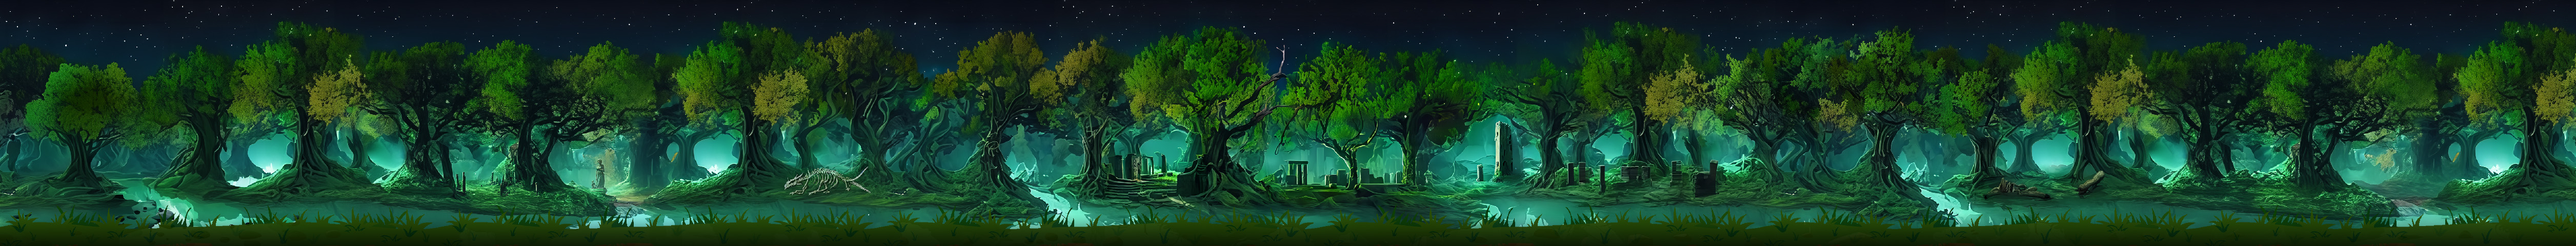
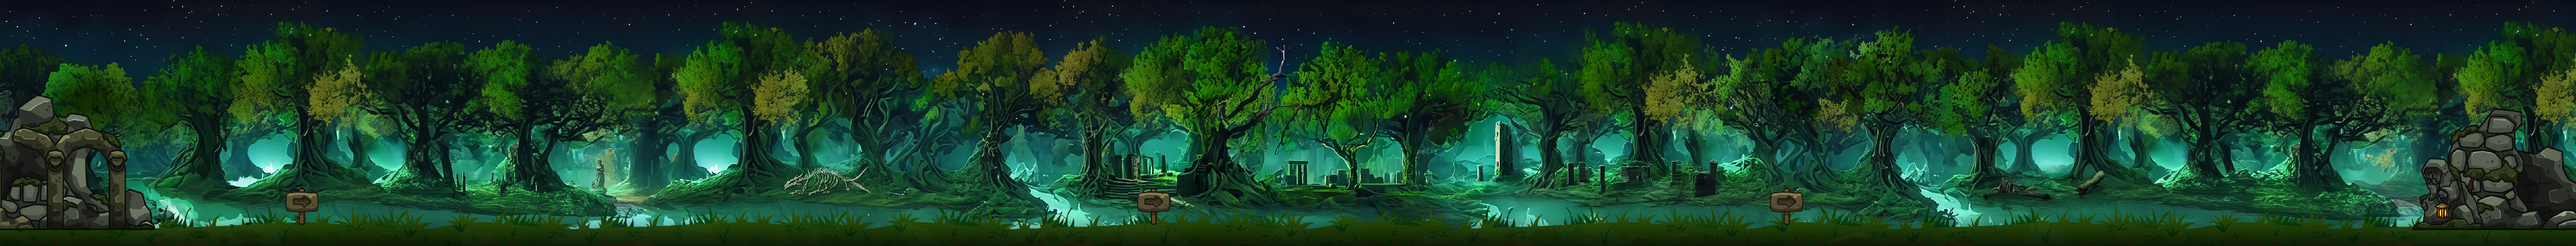
added new backgrounds and adjusted enemy density on lvl 1, implemented controls info

diff --git a/style.css b/style.css
@@ -5,13 +5,13 @@ body {
     justify-content: center;
     align-items: center;
     overflow: hidden;
-    height: 100vh;
+    height: 100dvh;
     margin: 0;
     /*background: linear-gradient(to top, rgba(22, 38, 0, 0.35),rgba(84, 118, 39, 0.35), rgb(36, 111, 158), rgb(2, 68, 109));*/
     background: linear-gradient(to top, rgb(38, 0, 0),rgb(118, 39, 39), rgb(36, 111, 158), rgb(2, 68, 109));
 }
 
-.global-button {
+.menu-button {
     padding: 10px;
     width: 6vw;
     height: 6vw;
@@ -21,10 +21,10 @@ body {
     min-width: 50px;
     cursor: pointer;
     transition: all 0.4s ease;
-    z-index: 100000;
+    z-index: 1;
 }
 
-.global-button:hover {
+.menu-button:hover {
     filter: brightness(1.2);
 }
 
@@ -176,6 +176,27 @@ button:hover {
     background-color: #f78a00;
     border: 3px solid rgba(255, 255, 255, 0.506);
     filter: drop-shadow(0px 0px 10px #ffe785);
+}
+
+/* CONTROLS */
+.controls {
+    z-index: 2;
+    display: none;
+    position: fixed;
+    height: 100dvh;
+    justify-content: center;
+    align-items: center;
+    width: 100vw;
+    background-color: rgba(0, 0, 0, 0.875);
+    top: 0;
+    left: 0;
+}
+
+.controls img {
+    width: 100%;
+    height: 60vw;
+    min-height: 400px;
+    max-height: 800px;
 }
 
 /* TURN DEVICE */
@@ -344,7 +365,7 @@ button:hover {
     background: linear-gradient(to top, rgb(38, 0, 0), rgb(2, 68, 109));
     background-size: 100% 200%;
     animation: backgroundAnimation 5s infinite ease;
-    z-index: 100000000;
+    z-index: 11;
 }
 
 @keyframes backgroundAnimation {
@@ -397,7 +418,7 @@ button:hover {
     transform: translateX(-50%);
     color: rgb(206, 163, 111);
     font-size: 20px;
-    z-index: 9999;
+    z-index: 10;
     text-shadow:
         1px 1px 0 rgba(0, 0, 0, 0.65), 
         -1px -1px 0 rgba(0, 0, 0, 0.65), 
@@ -416,7 +437,7 @@ button:hover {
     color: white;
     padding: 8px;
     border-radius: 50%;
-    z-index: 9999;
+    z-index: 10;
     cursor: pointer;
     opacity: 0.65;
 }
@@ -509,7 +530,7 @@ canvas {
 @media (hover: none) and (orientation: landscape) {
 
     canvas {
-        height: 100vh;
+        height: 100dvh;
         width: 100vw;
         border-radius: 0;
     }
@@ -521,7 +542,7 @@ canvas {
     .character-selection {
         max-width: 1000px;
         width: 100%;
-        height: 100vh;
+        height: 100dvh;
         border-radius: 0px;
     }
 
@@ -552,6 +573,13 @@ canvas {
     #gameFullscreen {
         display: none;
     }
+
+    .controls img {
+        width: 100%;
+        height: 100dvh;
+        min-height: 100dvh;
+        max-height: 100dvh;
+    }
 }
 
 /* DESKTOP ONLY */
@@ -576,7 +604,7 @@ canvas {
         max-width: 1000px;
         width: 100%;
         top: -200%;
-        max-height: 600vh;
+        max-height: 600px;
         border-radius: 0px;
         max-height: 60vh;
     }

diff --git a/script/levels/levels.js b/script/levels/levels.js
@@ -10,6 +10,15 @@ function loadLevel(levelNumber, character) {
                 new Enemy("ork", 1, 700 + Math.random() * 100),
                 new Enemy("ork", 1, 900 + Math.random() * 100),
                 new Enemy("troll", 1, 1300 + Math.random() * 100),
+                new Enemy("ork", 1, 1500 + Math.random() * 100),
+                new Enemy("ork", 1, 1700 + Math.random() * 100),
+                new Enemy("ork", 1, 1900 + Math.random() * 100),
+                new Enemy("troll", 1, 2300 + Math.random() * 100),
+                new Enemy("ork", 1, 2700 + Math.random() * 100),
+                new Enemy("ork", 1, 3000 + Math.random() * 100),
+                new Enemy("ork", 1, 3700 + Math.random() * 100),
+                new Enemy("ork", 1, 4000 + Math.random() * 100),
+                new Enemy("ork", 1, 4200 + Math.random() * 100),
                 new Endboss(1)
             ],
             //clouds background
@@ -36,8 +45,9 @@ function loadLevel(levelNumber, character) {
             ],
             // collectables
             [
-                new Collectable("thorshammer", 500),
+                new Collectable("thorshammer",1800),
                 new Collectable(character, 1000),
+                new Collectable(character, 3300),
             ]
         );
     };
@@ -80,8 +90,9 @@ function loadLevel(levelNumber, character) {
             ],
             // collectables
             [
-                new Collectable("thorshammer", 500),
+                new Collectable("thorshammer", 2500),
                 new Collectable(character, 1200),
+                new Collectable(character, 3200),
             ]
         );
     };
@@ -122,8 +133,9 @@ function loadLevel(levelNumber, character) {
             ],
             // collectables
             [
-                new Collectable("thorshammer", -500),
-                new Collectable(character, 1000),
+                new Collectable("thorshammer", 2500),
+                new Collectable(character, 1200),
+                new Collectable(character, 3200),
             ]
         );
     }

diff --git a/index.html b/index.html
@@ -17,18 +17,20 @@
         <source src="./video/firebackground.mp4" type="video/mp4">
     </video>
     <section class="start" id="startScreen">
-
         <div class="img-container">
             <img class="title-img" src="./img/08_intro/game_title.png">
             <img class="main-img" id="mainImgEnemies" src="./img/08_intro/background_enemies.png">
             <img class="main-img" id="mainImgHeroes" src="./img/08_intro/background_heroes.png">
         </div>
         <div class="start-menu">
-            <img src="./img/09_mobile/info.png" alt="" class="global-button" id="globalInfoBtn">
+            <img src="./img/09_mobile/info.png" alt="" class="menu-button" id="globalInfoBtn">
             <button class="load-characters" onclick="renderChars()">Start</button>
-            <img onclick="globalMute(event)" src="./img/09_mobile/mute.png" alt="" class="global-button" id="globalMuteBtn">
+            <img onclick="globalMute(event)" src="./img/09_mobile/mute.png" alt="" class="menu-button" id="globalMuteBtn">
         </div>
+    </section>
 
+    <section class="controls">
+        <img src="./img/08_intro/controls.png">
     </section>
 
     <section class="turn-device">
@@ -57,13 +59,6 @@
                 <!-- rendered Dialog -->
             </div>
         </div>
-        <!--<h3 class="current-level">Level 1</3>
-        <div class="char-select-old">
-            <button id="startGame1" onclick="startGame(`club`)">Ulfred</button>
-            <button id="startGame2" onclick="startGame(`axe`)">Rasnak</button>
-            <button id="startGame" onclick="startGame(`hammer`)">Jognyr</button>
-        </div>
-        <button id="fullScreen" onclick="fullscreen()">Fullscreen</button>-->
     </section>
 </body>
 <script src="./script/sounds/sounds.js"></script>

diff --git a/script/models/world.class.js b/script/models/world.class.js
@@ -39,9 +39,12 @@ class World {
             this.runCollisionHandler();
             if (nextLevelTriggered) {
                 this.reloadEnemyAnimations();
+                this.level.collectables.forEach((collectable) => {
+                    collectable.animate();
+                });
                 this.level.clouds.forEach((cloud) => {
                     cloud.animate();
-                })
+                });
             }
             mobileInterface.style.display = 'block';
             gameDialog.style.display = 'none';
@@ -83,6 +86,8 @@ class World {
                 playSound("dragonBoss", "death");
                 this.endboss.enemySpeed = 1 * this.levelNumber;
             }
+        }
+        if (this.bossTriggerd) {
             this.addToMap(this.statusBarBoss);
         }
         this.collidingHandler.throwObject(); 

diff --git a/script/models/character.class.js b/script/models/character.class.js
@@ -72,6 +72,6 @@ class Character extends MovableObject {
                     this.playAnimation(this.imagesIdle);
                 }
             }
-        }, 100);
+        }, 80);
     }
 }

diff --git a/script/models/endboss.class.js b/script/models/endboss.class.js
@@ -59,8 +59,6 @@ class Endboss extends MovableObject {
             }, 30);
     }
 
-
-
     fallToGround() {
         if (!this.onGround) {
             this.y += this.floatingSpeed * 2.5;

diff --git a/script/models/animations.class.js b/script/models/animations.class.js
@@ -32,5 +32,9 @@ class Animation {
         }, 100);
     }
 
+    animateDragonBoss() {
+
+    }
+
 }
 
